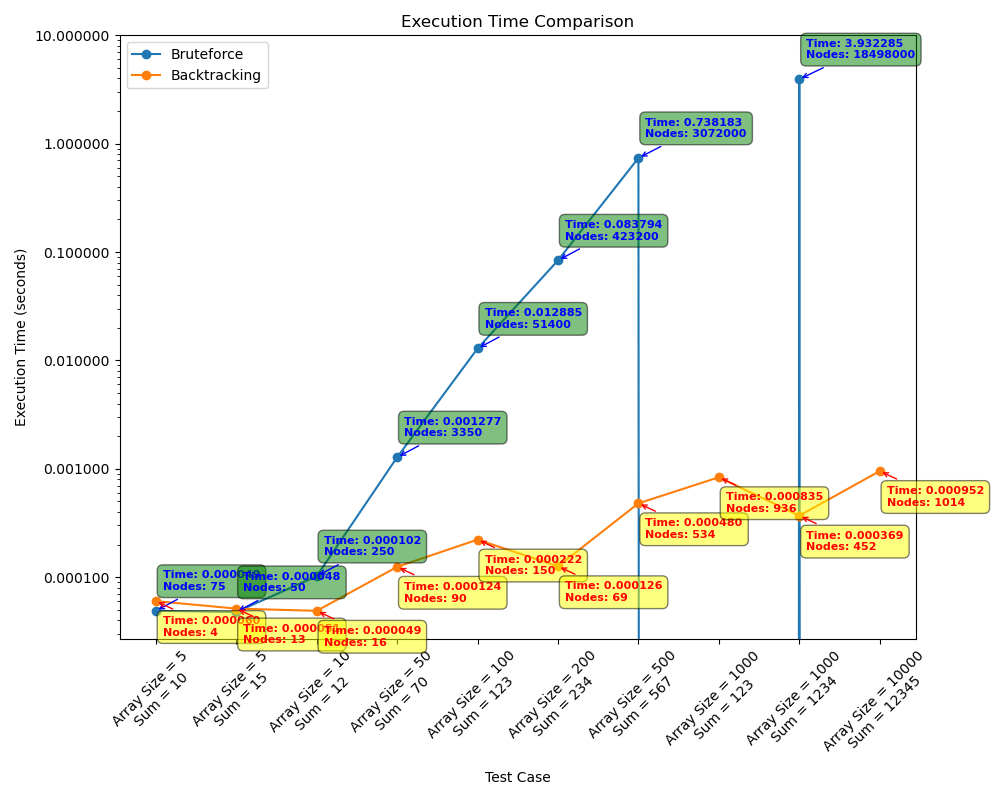
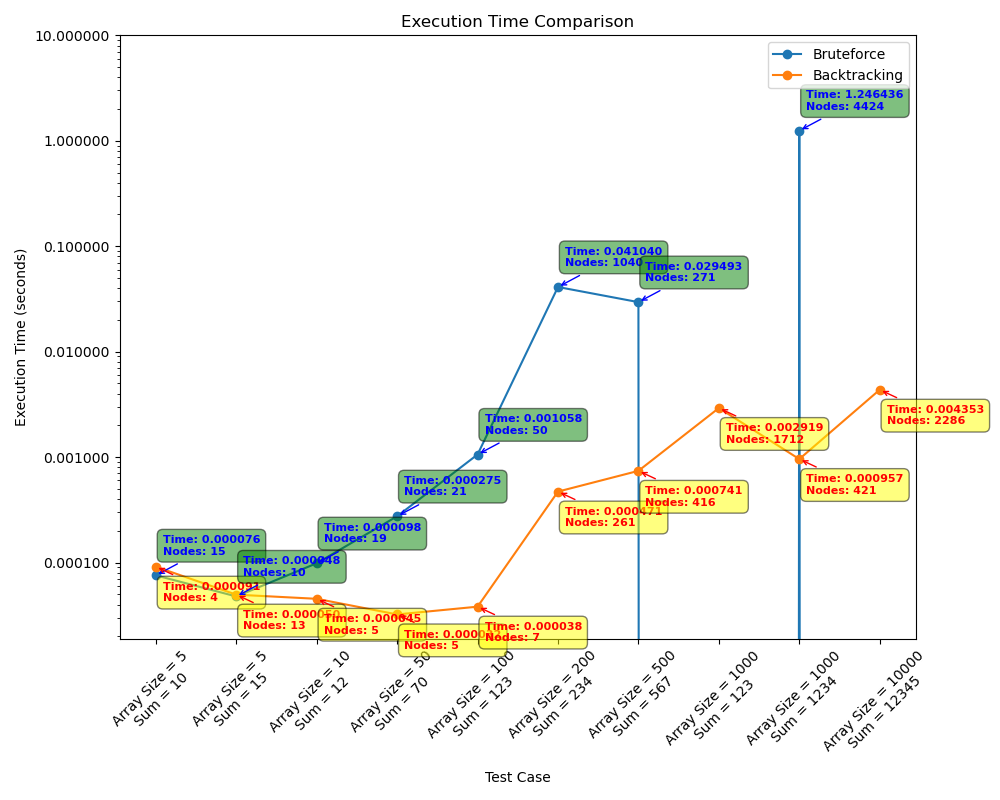
update testes

diff --git a/src/posts/paa-1.md b/src/posts/paa-1.md
@@ -60,9 +60,9 @@ def subset_sum_bruteforce(array: List[int], target_sum: int) -> Tuple[List[int],
     for i in range(1, 2 ** n):
         subset = []
         subset_sum = 0
+        expanded += 1
         # Para cada bit, verifica se o elemento correspondente deve estar no subconjunto
         for j in range(n):
-            expanded += 1
             #  Se o bit j estiver ligado, o elemento j é adicionado ao subconjunto
             if (i >> j) & 1:
                 subset.append(array[j])
@@ -184,22 +184,37 @@ Nesse primeiro teste, executamos os algoritmos com entradas variadas para poderm
 
 ### Teste 2
 
+No teste 2 os algoritmos foram executados com entradas de tamanho crescente, sempre mantendo o valor da soma a metade do número de elementos do array. O objetivo desse teste é observar a variação de tempo conforme o tamanho do array vai aumentando com um valor de soma relativamente baixo.
+
 ![test2](paa-1-test2.png)
 
 ### Teste 3
 
-No teste 3 os algoritmos foram executados com entradas de tamanho crescente, sempre mantendo o valor da soma o dobro do número de elementos do array. O objetivo desse teste é observar a variação de tempo conforme o tamanho do array vai aumentando.
+No teste 3 os algoritmos foram executados com entradas de tamanho crescente, sempre mantendo o valor da soma o dobro do número de elementos do array. O objetivo desse teste é observar a variação de tempo conforme o tamanho do array vai aumentando com um valor de soma relativamente alto.
 
 ![test3](paa-1-test3.png)
 
 ### Teste 4
 
+No teste 4 os algoritmos foram executados com o mesmo tamanho de array, com entradas de soma diferentes em ordem crescente. O objetivo é analisar a variação de tempo dos algoritmos conforme o valor da soma aumenta.
+
 ![test4](paa-1-test4.png)
 
 ### Teste 5
 
-![test5](paa-1-test5.png)
+No teste 5 os algoritmos foram executados com o mesmo tamanho de array, com entradas de soma diferentes em ordem crescente. O objetivo é analisar a variação de tempo dos algoritmos conforme o valor da soma aumenta em um array relativamente médio (tamanho 2000).
+
+![test6](paa-1-test6.png)
 
 ### Teste 6
 
-![test6](paa-1-test6.png)
+No teste 6 os algoritmos foram executados com o mesmo tamanho de array, com entradas de soma diferentes em ordem crescente. O objetivo é analisar a variação de tempo dos algoritmos conforme o valor da soma aumenta em um array relativamente grande (tamanho 5000).
+
+![test5](paa-1-test5.png)
+
+## Relatorio Final
+
+O algoritmo de backtracking é mais eficiente que o algoritmo de brute force, pois ele não precisa gerar todas as combinações possíveis, ele vai gerando as combinações e verificando se a soma é igual ao objetivo, se não for ele volta e tenta outra combinação, descartando combinações impossiveis.
+
+O algoritmo de brute force é mais simples de implementar, porém ele é muito ineficiente, pois ele gera todas as combinações possíveis e verifica se a soma é igual ao objetivo, então encontrar o objetivo de forma rapida se torna meio aleatório, pois depende da ordem que as combinações são geradas e calculadas.
+
